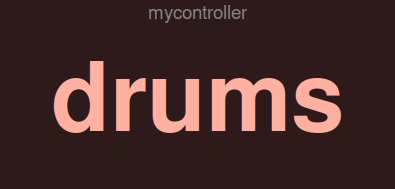
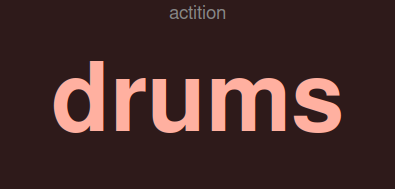
README: screenshots show the actition BankSet; explain the BankSet-name label

Changed region(s): [[0.3646, 0.0265, 0.638, 0.1323]]

diff --git a/README.rst b/README.rst
@@ -1039,21 +1039,31 @@ In titlebar-less mode, right-click anywhere on the window for a menu with
 
 The window stays on top of other windows and updates immediately on every
 bank switch, so you can glance at it during a performance to confirm that
-a chord or double press registered correctly.  The small label at the top
-names the BankSet; the colours come from each bank's ``"_display"`` style
-(see *Per-bank styling* below).
+a chord or double press registered correctly.
+
+The large text is the name of the active bank.  The small label above it is
+the **BankSet name** -- the ``"name"`` key of the BankSet in your config
+file, not anything detected from the hardware.  In the screenshots below it
+is ``actition``, the name one config gives to the BankSet holding the
+mappings for its ActitioN footswitch.  When a config has several BankSets,
+the window shows whichever one last switched banks (at startup, the first
+BankSet that has more than one bank or starts on a bank other than
+``"default"``).  The colours come from each bank's
+``"_display"`` style (see *Per-bank styling* below).
 
 .. figure:: screenshots/bank-display-drums.png
    :alt: Bank display window showing the bank name "drums" in salmon text
          on a dark red background
 
-   A ``drums`` bank, styled ``{"bg": "#2e1a1a", "fg": "#ffb0a0"}``.
+   The ``drums`` bank of the ``actition`` BankSet, styled
+   ``{"bg": "#2e1a1a", "fg": "#ffb0a0"}``.
 
 .. figure:: screenshots/bank-display-looper.png
    :alt: Bank display window showing the bank name "looper" in light green
          text on a dark green background
 
-   A ``looper`` bank, styled ``{"bg": "#1a2e1a", "fg": "#a0ffb0"}``.
+   The ``looper`` bank of the ``actition`` BankSet, styled
+   ``{"bg": "#1a2e1a", "fg": "#a0ffb0"}``.
 
 **Per-bank styling**
 
